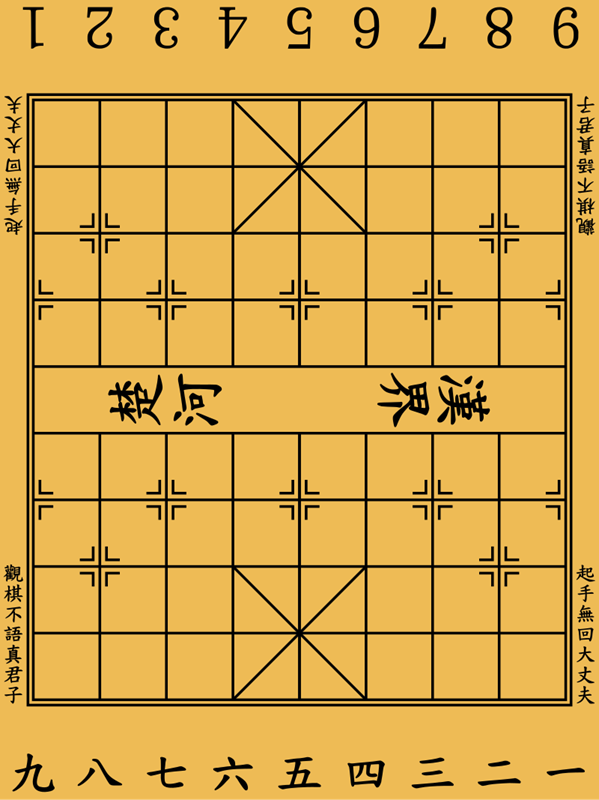
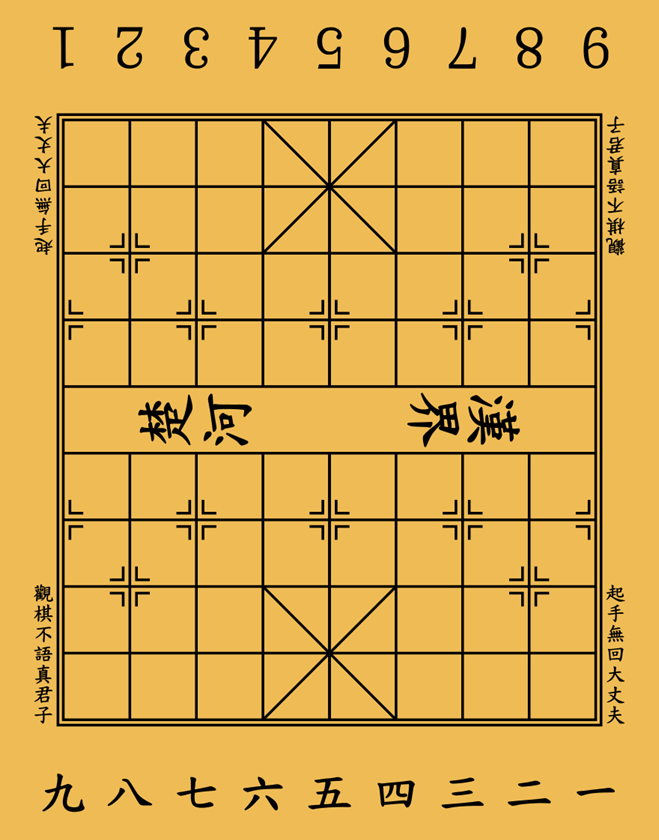
window name now is chinese; change the window size

Changed region(s): [[0.0, 0.0, 0.9917, 1.0], [0.8715, 0.9375, 0.9917, 0.9688]]

diff --git a/src/main.cpp b/src/main.cpp
@@ -9,7 +9,10 @@ float deltaTime = GAME_TIME_PER_FRAME;
 
 int main()
 {
-    sf::RenderWindow MainWindow(sf::VideoMode(599, 800), "XiangQi", sf::Style::Titlebar | sf::Style::Close);
+    sf::RenderWindow MainWindow(sf::VideoMode(659, 840), "XiangQi", sf::Style::Titlebar | sf::Style::Close);
+    // 设置窗口标题为中文（使用 Windows API）
+    SetWindowTextW(MainWindow.getSystemHandle(), L"中国象棋");
+
     MainWindow.setFramerateLimit(60);
     MainWindow.setVerticalSyncEnabled(true);
     
